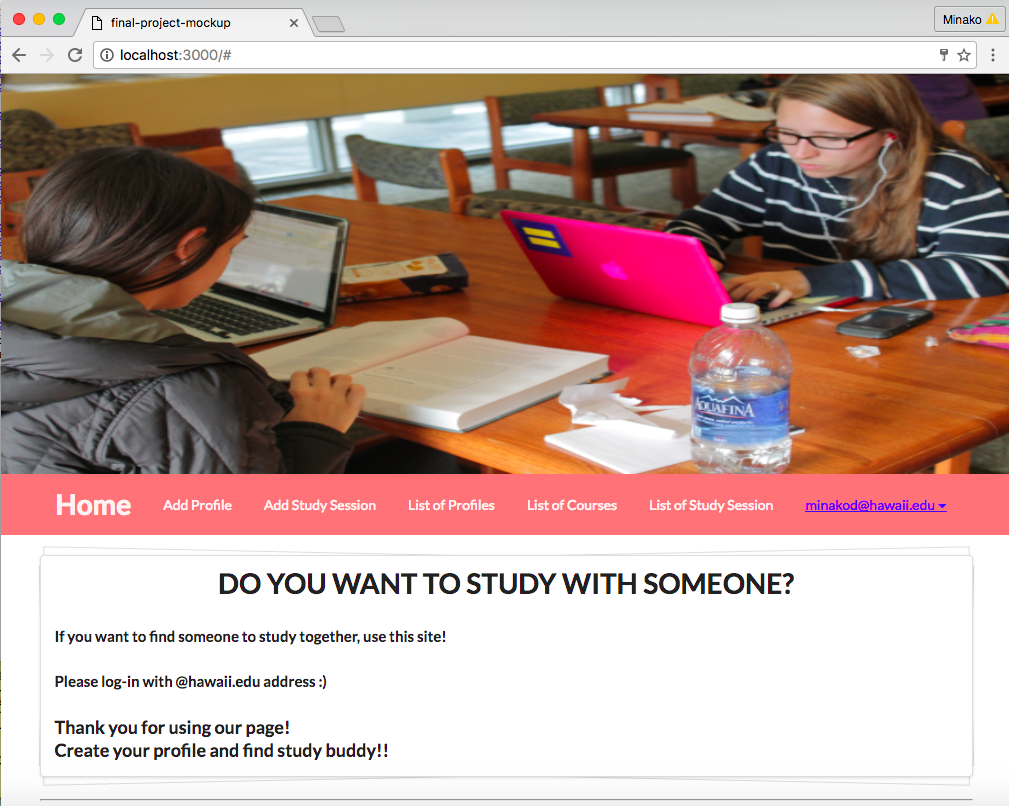
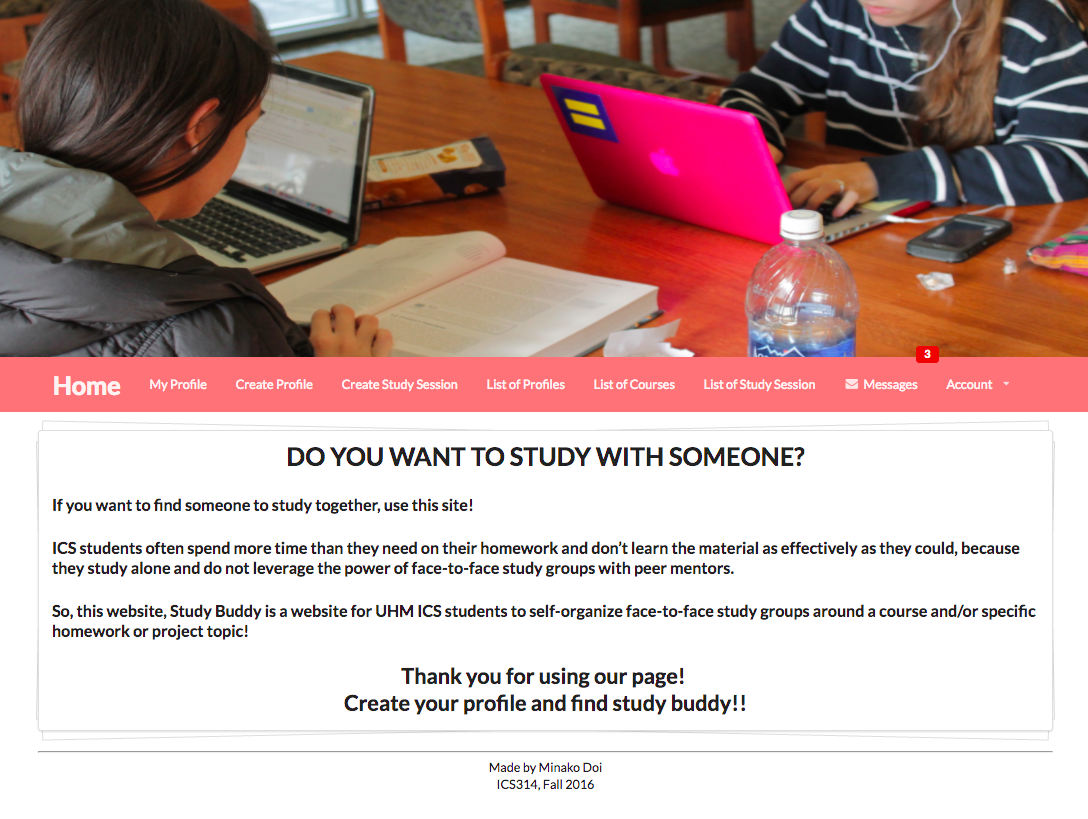
updated

diff --git a/app/imports/ui/pages/profile-page.html b/app/imports/ui/pages/profile-page.html
@@ -2,54 +2,56 @@
   {{#if Template.subscriptionsReady}}
     <div style="margin-top: 20px" class="ui container">
       <!--<form class="ui form contact-data-form {{ errorClass }}">-->
-        <h4 class="ui dividing header">Profile</h4>
-        <div class="ui four wide column">
-          <div class="ui fluid card">
-            <div class="ui small image">
-              <img src="/images/user.png">
-            </div>
-            <div class="content">
-              <div class="ui header">{{ profileField 'first' }} {{ profileField 'last' }}</div>
+      <h4 class="ui dividing header">Profile</h4>
+        <div class="ui three column grid container">
+          <div class="column">
+            <div class="ui fluid card">
+              <div class="ui small image">
+                <img src="/images/user.png">
+              </div>
+              <div class="content">
+                <div class="ui header">{{ profileField 'first' }} {{ profileField 'last' }}</div>
+              </div>
             </div>
           </div>
+          <div class="column">
+            <table class="ui fixed grey celled table">
+              <tbody>
+              <tr>
+                <td>
+                  <div class="content">Previous Courses</div>
+                </td>
+                <td>{{ profileField 'preCourse' }}</td>
+              </tr>
+              <tr>
+                <td>
+                  <div class="content">Current Courses</div>
+                </td>
+                <td>{{ profileField 'currCourse' }}</td>
+              </tr>
+              <tr>
+                <td>
+                  <div class="content">Teaching Courses</div>
+                </td>
+                <td>{{ profileField 'sensei' }}</td>
+              </tr>
+              <tr>
+                <td>
+                  <div class="content">Learning Courses</div>
+                </td>
+                <td>{{ profileField 'grasshopper' }}</td>
+              </tr>
+              <tr>
+                <td>
+                  <div class="content">Description</div>
+                </td>
+                <td>{{ profileField 'description' }}</td>
+              </tr>
+              </tbody>
+            </table>
+          </div>
         </div>
-        <div class="ui four wide column">
-          <table class="ui teal celled table">
-            <tbody>
-             <tr>
-              <td>
-                <div class="content">Previous Courses</div>
-              </td>
-              <td>{{ profileField 'preCourse' }}</td>
-             </tr>
-             <tr>
-               <td>
-                 <div class="content">Current Courses</div>
-               </td>
-               <td>{{ profileField 'currCourse' }}</td>
-             </tr>
-             <tr>
-               <td>
-                 <div class="content">Teaching Courses</div>
-               </td>
-               <td>{{ profileField 'sensei' }}</td>
-             </tr>
-             <tr>
-               <td>
-                 <div class="content">Learning Courses</div>
-               </td>
-               <td>{{ profileField 'grasshopper' }}</td>
-             </tr>
-             <tr>
-               <td>
-                 <div class="content">Description</div>
-               </td>
-               <td>{{ profileField 'description' }}</td>
-             </tr>
-            </tbody>
-          </table>
-        </div>
-      <!--</form>-->
     </div>
+      <!--</form>-->
   {{/if}}
 </template>

diff --git a/app/imports/ui/layouts/header.html b/app/imports/ui/layouts/header.html
@@ -6,11 +6,16 @@
     <div class="ui container">
       <a class="item" href="{{pathFor 'Home_Page'}}"><h1>Home</h1></a>
       {{#if currentUser}}
+        <a class="item">My Profile</a>
         <a class="{{ isActiveRoute 'Add_Profile_Page'}} item" href="{{ pathFor 'Add_Profile_Page' }}">Create Profile</a>
         <a class="{{ isActiveRoute 'Add_Session_Page'}} item" href="{{ pathFor 'Add_Session_Page' }}">Create Study Session</a>
         <a class="{{ isActiveRoute 'List_Profile_Page'}} item" href="{{ pathFor 'List_Profile_Page' }}">List of Profiles</a>
         <a class="{{ isActiveRoute 'List_Course_Page'}} item" href="{{ pathFor 'List_Course_Page' }}">List of Courses</a>
         <a class="{{ isActiveRoute 'List_Session_Page'}} item" href="{{ pathFor 'List_Session_Page' }}">List of Study Session</a>
+        <a class="item">
+          <i class="icon mail"></i> Messages
+          <div class="floating ui red label">3</div>
+        </a>
       {{/if}}
       {{> Cas_Login }}
     </div>

diff --git a/app/imports/ui/pages/home-page.html b/app/imports/ui/pages/home-page.html
@@ -10,7 +10,7 @@
       <h2 class="ui centered header">Thank you for using our page! <br>
       Create your profile and find study buddy!!</h2>
       {{else}}
-      <h3 class="ui header">To use this site, please log-in with @hawaii.edu address :)</h3>
+      <h2 class="ui centered header">To use this site, please log-in with @hawaii.edu address :)</h2>
     {{/if}}
     </div>
   </div>

diff --git a/app/imports/ui/pages/list-course-page.html b/app/imports/ui/pages/list-course-page.html
@@ -15,7 +15,7 @@
           {{#each course in courseList}}
             <tr>
               <td>{{course.name}}</td>
-              <td>{{course.sensei}}</td>
+              <td><a href="{{pathFor 'Profile_Page' _id=course._id }}">{{course.sensei}}</a></td>
               <td>{{course.grasshopper}}</td>
             </tr>
           {{/each}}
